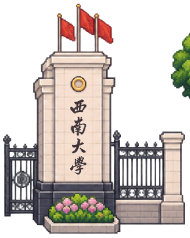
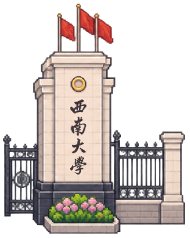
bug小修

Changed region(s): [[0.8947, 0.1471, 1.0, 0.4118]]

diff --git a/picture/swu_gate_project/build_project.py b/picture/swu_gate_project/build_project.py
@@ -25,6 +25,9 @@ for name,(x1,y1,x2,y2,w,h) in regions.items():
  crop=Image.fromarray(arr,'RGBA')
  # BOX is the most faithful reduction while retaining texture and edge readability.
  crop=crop.resize((w,h),Image.Resampling.BOX)
+ # 东侧门柱裁切框带入了邻近树冠，清除残片并保留原画布尺寸。
+ if name=='gate_right':
+  crop.paste((0,0,0,0),(170,32,190,99))
  crop.save(A/f'{name}.png')
  sprites[name]=(w,h)
 
